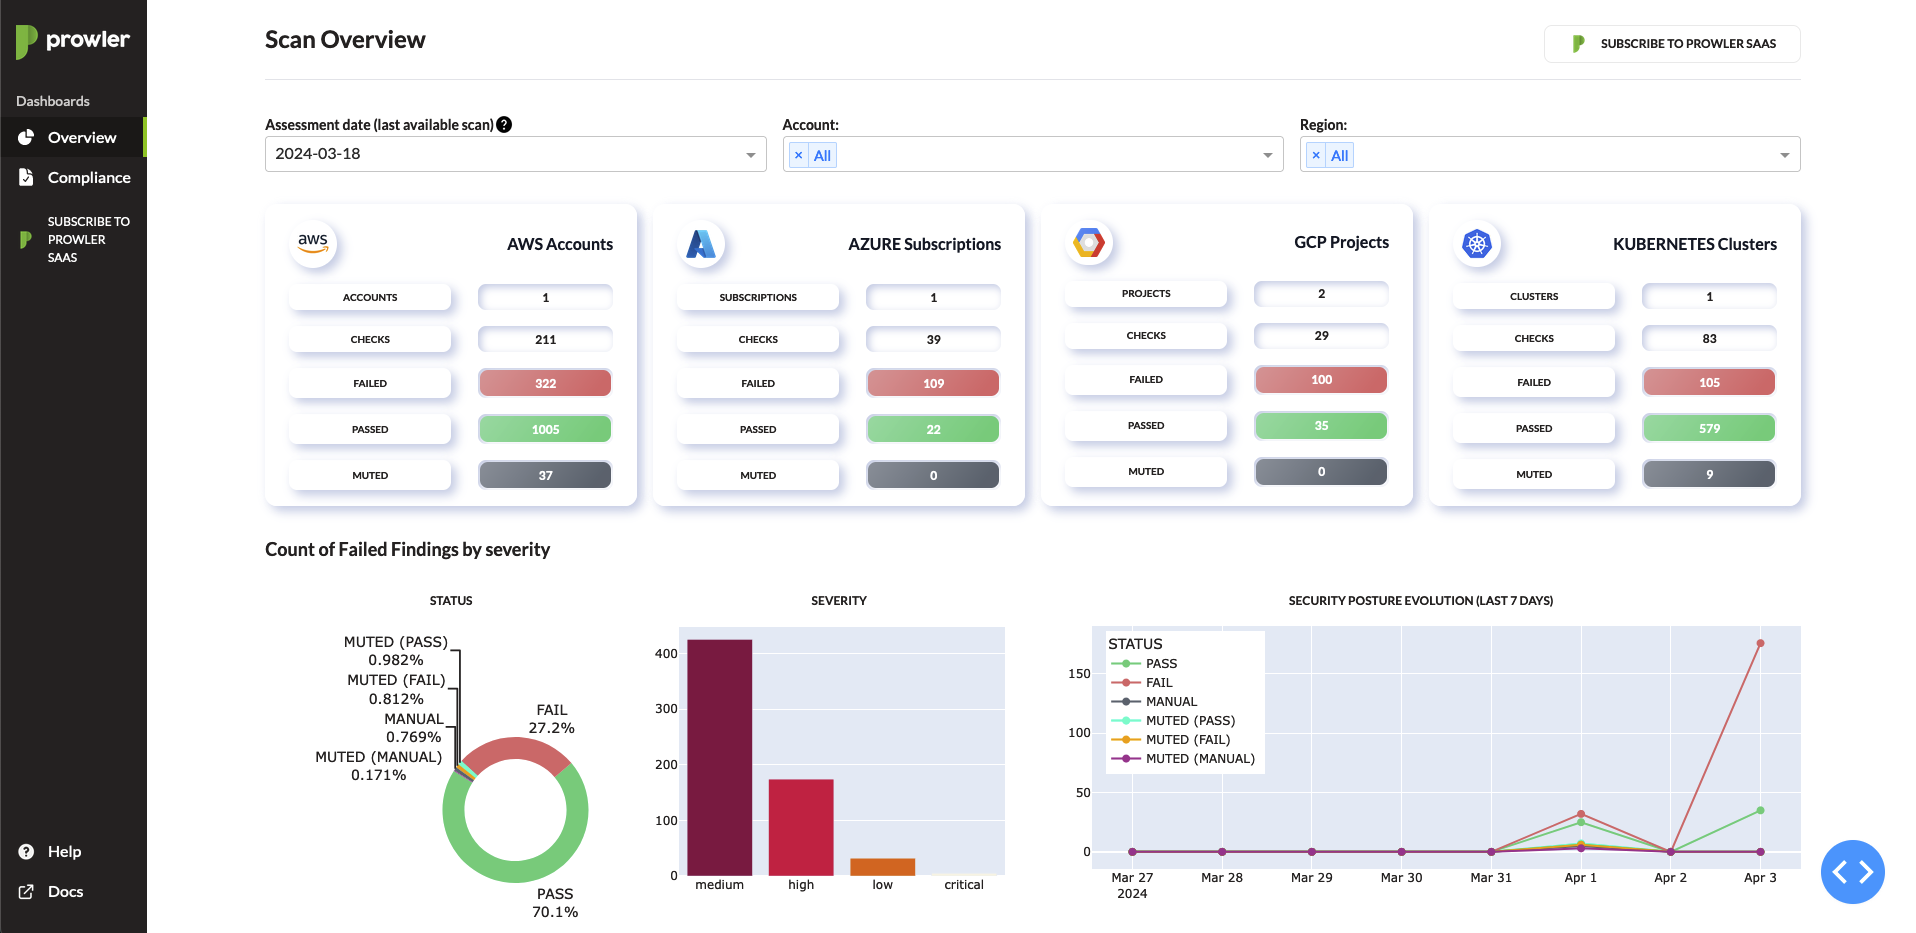
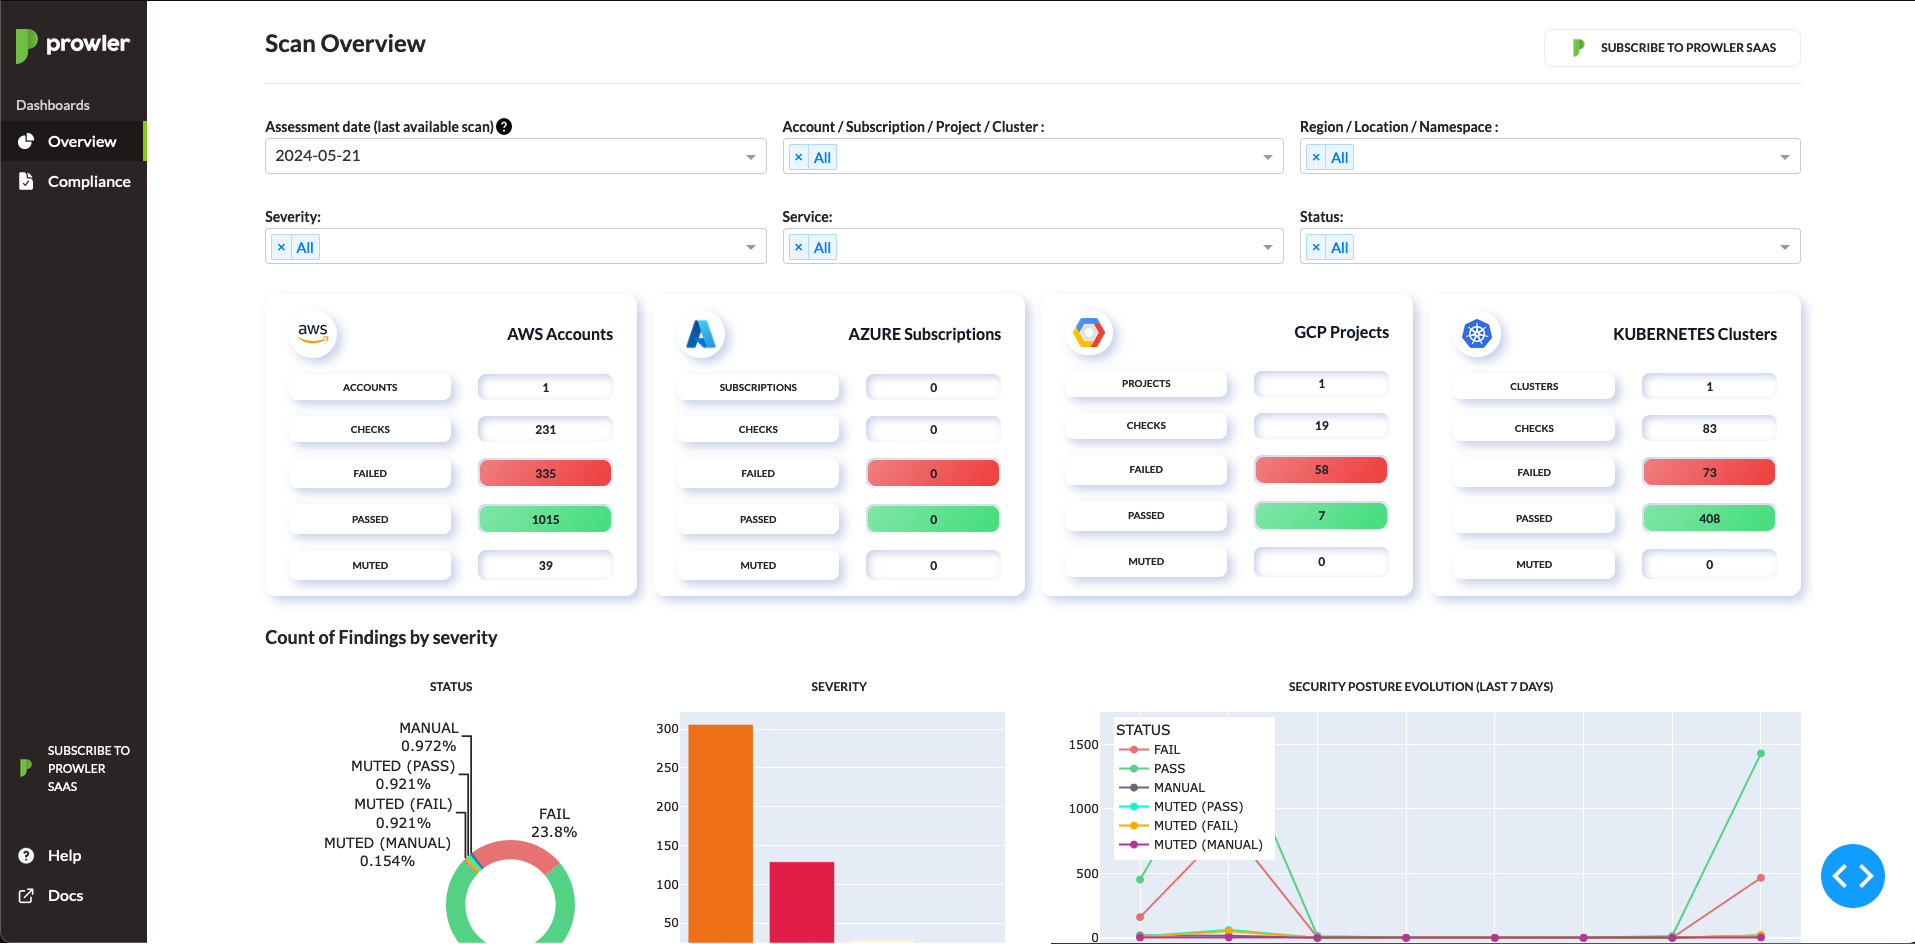
docs(dashboard): update and improve docs

diff --git a/docs/tutorials/dashboard.md b/docs/tutorials/dashboard.md
@@ -6,7 +6,7 @@ prowler dashboard
 ```
 ???+ note
     You can expose the `dashboard` server in another address using the `HOST` environment variable.
-    
+
 To run Prowler local dashboard with Docker, use:
 
 ```sh
@@ -15,7 +15,7 @@ docker run --env HOST=0.0.0.0 --publish 127.0.0.1:11666:11666 toniblyx/prowler:l
 
 ???+ note
     **Remember that the `dashboard` server is not authenticated, if you expose it to the internet, you are running it at your own risk.**
-    
+
 The banner and additional info about the dashboard will be shown on your console:
 <img src="../img/dashboard/dashboard-banner.png">
 
@@ -27,10 +27,20 @@ The overview page provides a full impression of your findings obtained from Prow
 
 In this page you can do multiple functions:
 
-* Apply filters (Assessment Date / Account / Region)
+* Apply filters:
+    * Assesment Date
+    * Account
+    * Region
+    * Severity
+    * Service
+    * Status
 * See wich files has been scanned to generate the dashboard placing your mouse on the `?` icon:
     <img src="../img/dashboard/dashboard-files-scanned.png">
-* Download the `Top 25 Failed Findings by Severity` table using the button `DOWNLOAD THIS TABLE AS CSV`
+* Download the `Top Findings by Severity` table using the button `DOWNLOAD THIS TABLE AS CSV` or `DOWNLOAD THIS TABLE AS XLSX`
+* Click on the provider cards to filter by provider.
+* On the dropdowns under `Top Findings by Severity` you can apply multiple sorts to see the information, also you will get a detailed view of each finding using the dropdowns:
+<img src="../img/dashboard/dropdown.png">
+
 
 ## Compliance Page
 
@@ -83,6 +93,9 @@ to load the dashboard with the new files.
 Prowler will use the outputs from the folder `/output` (for common prowler outputs) and `/output/compliance` (for prowler compliance outputs) to generate the dashboard.
 
 To change the path modify the values `folder_path_overview` or `folder_path_compliance` from `/dashboard/config.py`
+
+???+ note
+    If you have any issue related with dashboard, check that the output path where dashboard it's getting the outputs it's correct.
 
 ## Output Support
 
